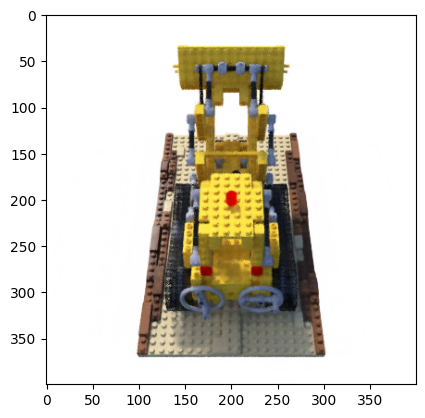
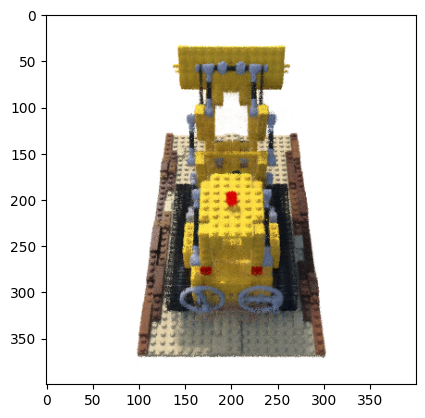
k-planes fix

diff --git a/backbones/kplanes.py b/backbones/kplanes.py
@@ -3,84 +3,81 @@ import torch.nn as nn
 import numpy as np
 
 
-# Mapping function for k-planes
-def to_cartesian(theta_phi):
-    return torch.stack(
-        [
-            torch.sin(theta_phi[:, 0]) * torch.cos(theta_phi[:, 1]),
-            torch.sin(theta_phi[:, 0]) * torch.sin(theta_phi[:, 1]),
-            torch.cos(theta_phi[:, 0]),
-        ],
-        axis=1,
-    )
-
-
 class NerfModel(nn.Module):
-    def __init__(self, embedding_dim_pos=20, embedding_dim_direction=8, hidden_dim=128):
+    def __init__(
+        self, embedding_dim_direction=4, hidden_dim=64, N=512, F=96, scale=1.5
+    ):
+        """
+        The parameter scale represents the maximum absolute value among all coordinates and is used for scaling the data
+        """
         super(NerfModel, self).__init__()
 
+        self.xy_plane = nn.Parameter(torch.rand((N, N, F)))
+        self.yz_plane = nn.Parameter(torch.rand((N, N, F)))
+        self.xz_plane = nn.Parameter(torch.rand((N, N, F)))
+
         self.block1 = nn.Sequential(
-            nn.Linear(embedding_dim_pos * 3, hidden_dim),
+            nn.Linear(F, hidden_dim),
             nn.ReLU(),
-            nn.Linear(hidden_dim, hidden_dim),
-            nn.ReLU(),
-            nn.Linear(hidden_dim, hidden_dim),
-            nn.ReLU(),
-            nn.Linear(hidden_dim, hidden_dim),
+            nn.Linear(hidden_dim, 16),
             nn.ReLU(),
         )
-
         self.block2 = nn.Sequential(
-            nn.Linear(embedding_dim_pos * 3 + hidden_dim, hidden_dim),
+            nn.Linear(15 + 3 * 4 * 2 + 3, hidden_dim),
             nn.ReLU(),
             nn.Linear(hidden_dim, hidden_dim),
             nn.ReLU(),
-            nn.Linear(hidden_dim, hidden_dim),
-            nn.ReLU(),
-            nn.Linear(hidden_dim, hidden_dim + 1),
+            nn.Linear(hidden_dim, 3),
+            nn.Sigmoid(),
         )
 
-        self.block3 = nn.Sequential(
-            nn.Linear(hidden_dim, hidden_dim // 2),
-            nn.ReLU(),
-        )
-        self.block4 = nn.Sequential(
-            nn.Linear(hidden_dim // 2, 75),
-        )
-
-        self.embedding_dim_pos = embedding_dim_pos
         self.embedding_dim_direction = embedding_dim_direction
-        self.relu = nn.ReLU()
-
-        self.bandwidth = nn.Parameter(torch.zeros((1, 25)))
-        self.p = nn.Parameter(torch.randn((25, 2)))
+        self.scale = scale
+        self.N = N
 
     @staticmethod
     def positional_encoding(x, L):
-        out = torch.empty(x.shape[0], x.shape[1] * 2 * L, device=x.device)
-        for i in range(x.shape[1]):
-            for j in range(L):
-                out[:, i * (2 * L) + 2 * j] = torch.sin(2**j * x[:, i])
-                out[:, i * (2 * L) + 2 * j + 1] = torch.cos(2**j * x[:, i])
-        return out
+        out = [x]
+        for j in range(L):
+            out.append(torch.sin(2**j * x))
+            out.append(torch.cos(2**j * x))
+        return torch.cat(out, dim=1)
 
-    def forward(self, o, d):
-        emb_x = self.positional_encoding(o, self.embedding_dim_pos // 2)
-        h = self.block1(emb_x)
-        tmp = self.block2(torch.cat((h, emb_x), dim=1))
-        h, sigma = tmp[:, :-1], self.relu(tmp[:, -1])
-        h = self.block3(h)
-        k = self.block4(h).reshape(o.shape[0], 25, 3)
+    def forward(self, x, d):
+        sigma = torch.zeros_like(x[:, 0])
+        c = torch.zeros_like(x)
 
-        c = (
-            k
-            * torch.exp(
-                (
-                    self.bandwidth.unsqueeze(-1)
-                    * to_cartesian(self.p).unsqueeze(0)
-                    * d.unsqueeze(1)
-                )
+        mask = (
+            (x[:, 0].abs() < self.scale)
+            & (x[:, 1].abs() < self.scale)
+            & (x[:, 2].abs() < self.scale)
+        )
+        xy_idx = (
+            ((x[:, [0, 1]] / (2 * self.scale) + 0.5) * self.N)
+            .long()
+            .clip(0, self.N - 1)
+        )  # [batch_size, 2]
+        yz_idx = (
+            ((x[:, [1, 2]] / (2 * self.scale) + 0.5) * self.N)
+            .long()
+            .clip(0, self.N - 1)
+        )  # [batch_size, 2]
+        xz_idx = (
+            ((x[:, [0, 2]] / (2 * self.scale) + 0.5) * self.N)
+            .long()
+            .clip(0, self.N - 1)
+        )  # [batch_size, 2]
+        F_xy = self.xy_plane[xy_idx[mask, 0], xy_idx[mask, 1]]  # [batch_size, F]
+        F_yz = self.yz_plane[yz_idx[mask, 0], yz_idx[mask, 1]]  # [batch_size, F]
+        F_xz = self.xz_plane[xz_idx[mask, 0], xz_idx[mask, 1]]  # [batch_size, F]
+        F = F_xy * F_yz * F_xz  # [batch_size, F]
+
+        h = self.block1(F)
+        h, sigma[mask] = h[:, :-1], h[:, -1]
+        c[mask] = self.block2(
+            torch.cat(
+                [self.positional_encoding(d[mask], self.embedding_dim_direction), h],
+                dim=1,
             )
-        ).sum(1)
-
-        return torch.sigmoid(c), sigma
+        )
+        return c, sigma

diff --git a/test.py b/test.py
@@ -3,12 +3,12 @@ import numpy as np
 from tqdm import tqdm
 import matplotlib.pyplot as plt
 
-from backbones.nerf import NerfModel
+from backbones.kplanes import NerfModel
 from render import render_rays
 
 
 @torch.no_grad()
-def test(hn, hf, dataset, chunk_size=10, img_index=0, nb_bins=192, H=400, W=400):
+def test(hn, hf, dataset, chunk_size=1, img_index=0, nb_bins=192, H=400, W=400):
     ray_origins = dataset[img_index * H * W : (img_index + 1) * H * W, :3]
     ray_directions = dataset[img_index * H * W : (img_index + 1) * H * W, 3:6]
 
@@ -40,7 +40,7 @@ def test(hn, hf, dataset, chunk_size=10, img_index=0, nb_bins=192, H=400, W=400)
 if __name__ == "__main__":
 
     device = torch.device("mps")
-    model = torch.load("./models/nerf_model_plex_6.pth", map_location=device)
+    model = torch.load("./models/kplanes_model_15.pth", map_location=device)
 
     testing_dataset = torch.from_numpy(
         np.load("./data/testing_data.pkl", allow_pickle=True)
